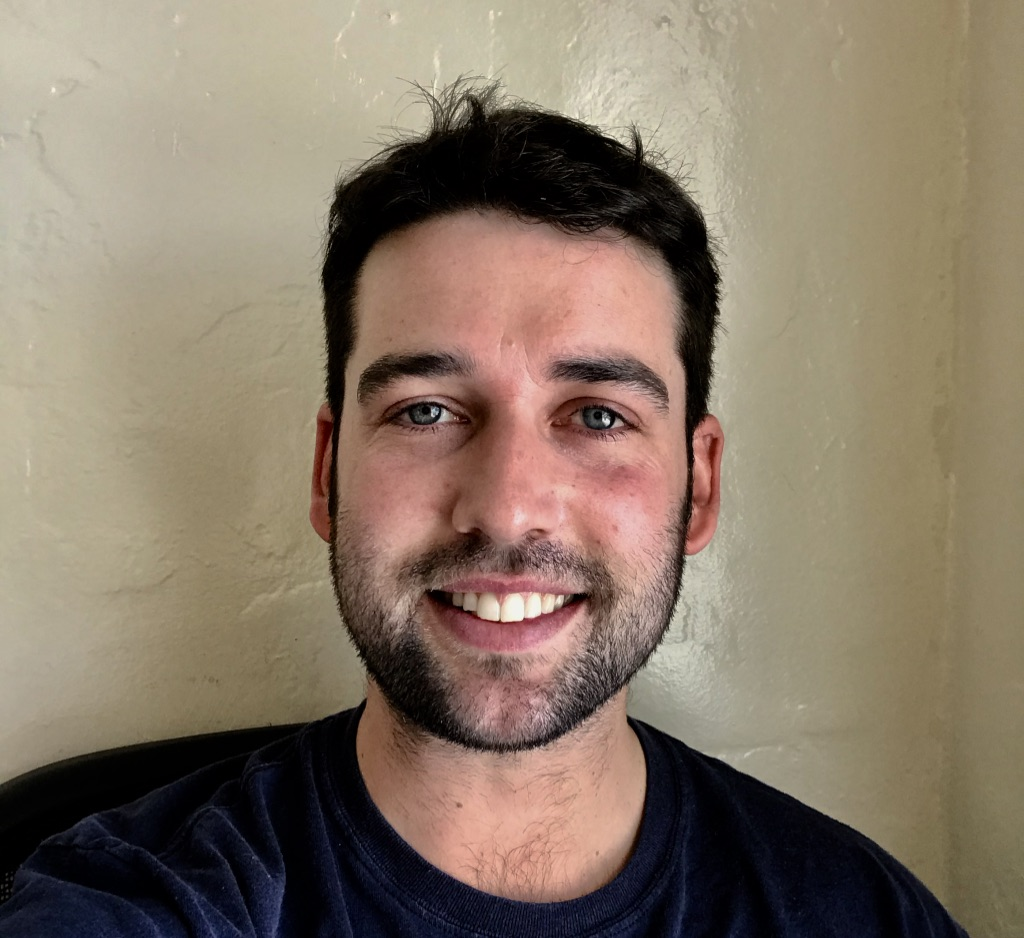
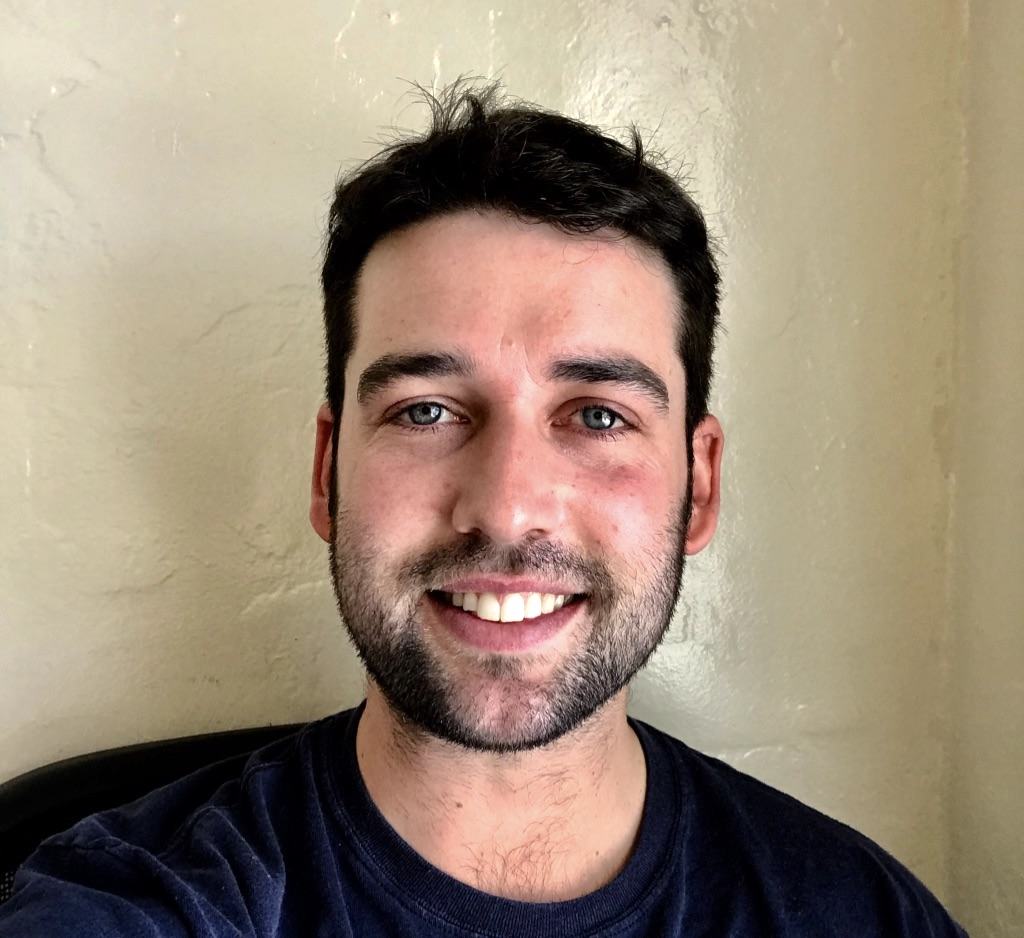
new pic

diff --git a/index.html b/index.html
@@ -50,7 +50,7 @@
 
 						<!-- Featured Post -->
 							<article class="post featured">
-								<img id= "headshot" src="images/prof_pic.jpg" alt="">
+								<img id= "headshot" src="images/prof_pic2.jpg" alt="">
 								<header class="major">
 									<h2>About Me</h2>
 									<p>I am a SF Bay Area based developer with experience using the latest frontend and backend technologies and concepts to build real-life applications.
